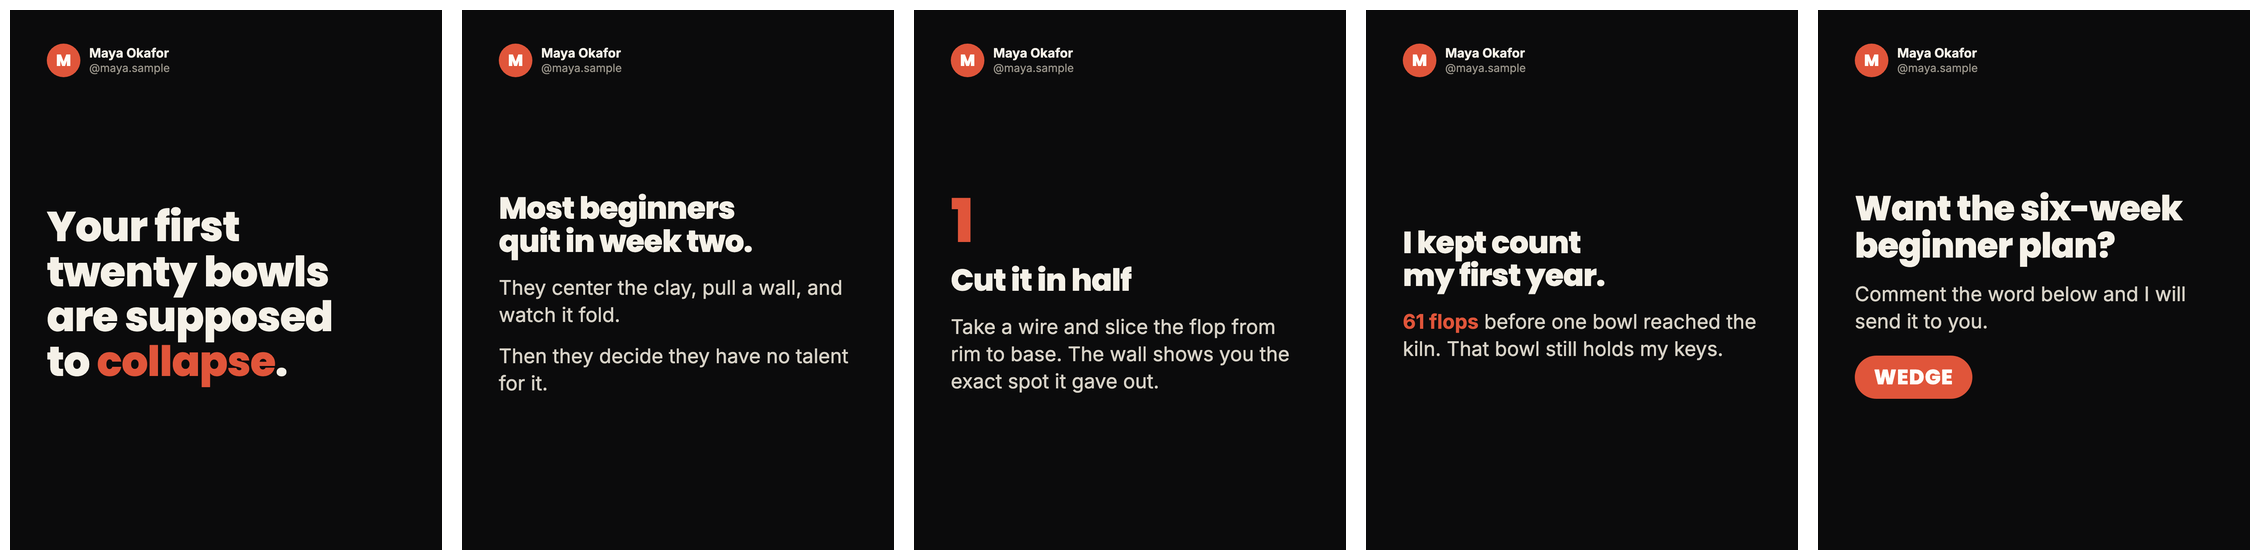
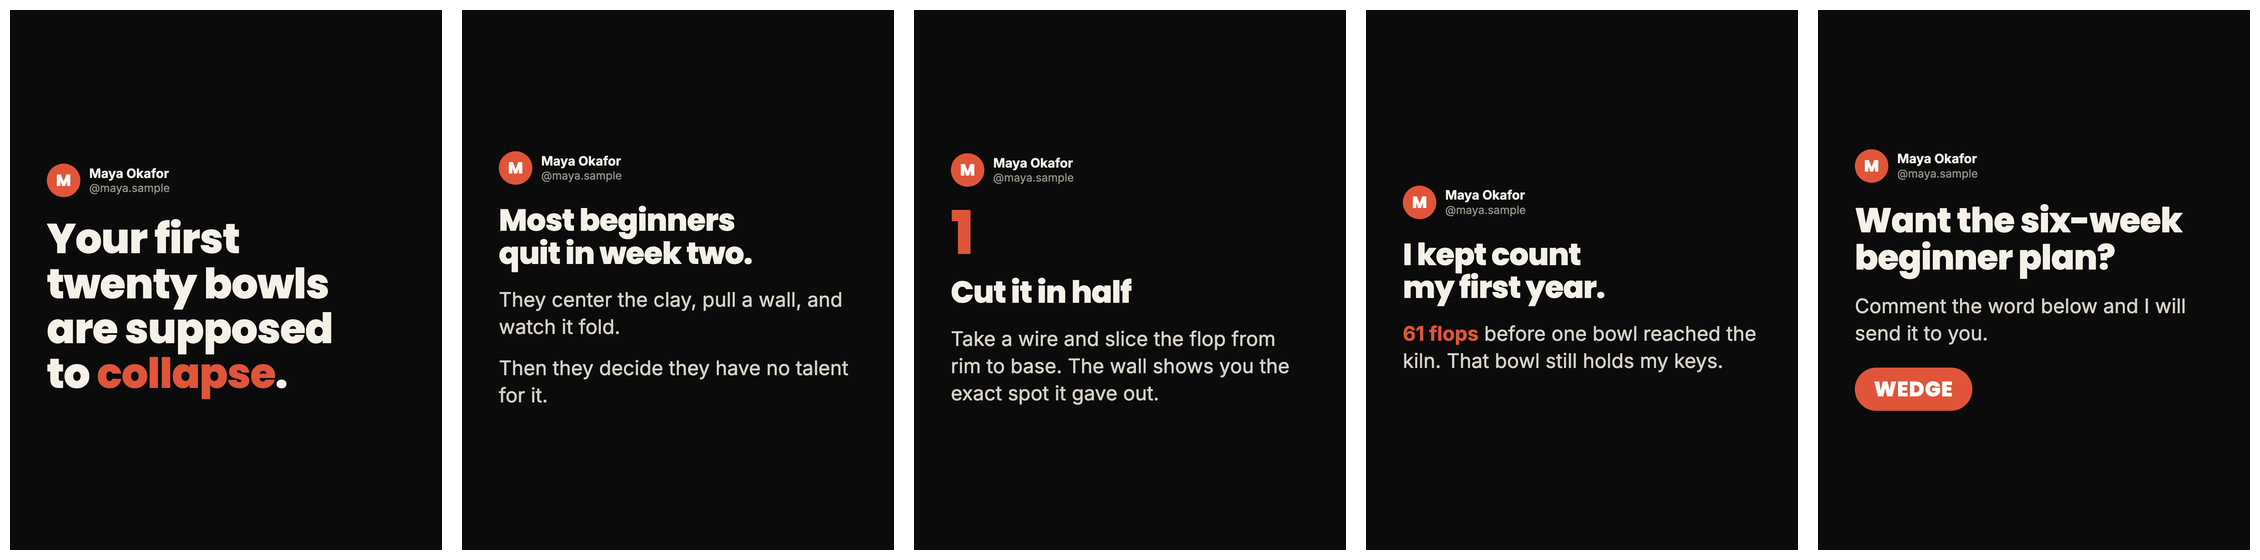
Place the photo, name and handle directly above the words
They were pinned to the top of every slide. Now they sit on the text
block and move with it.

diff --git a/templates/slides.css b/templates/slides.css
@@ -8,7 +8,7 @@ body { padding: 24px; font-size: 0; }
   --k: 1; --hs: 76px; --bs: 50px;
   width: 1080px; height: 1350px; position: relative; overflow: hidden;
   display: inline-flex; flex-direction: column; vertical-align: top;
-  padding: 84px 92px 96px;
+  padding: 96px 92px;
   background: var(--bg); color: var(--fg); font-family: var(--body-font);
   zoom: .3; margin: 0 40px 40px 0;
 }
@@ -29,7 +29,8 @@ body { padding: 24px; font-size: 0; }
 .color .b b { text-decoration: underline; text-decoration-thickness: 5px; text-underline-offset: 8px; }
 .color .hd { opacity: .75; }
 
-.who { flex: none; height: 84px; display: flex; align-items: center; gap: 22px; }
+/* The photo, name and handle sit directly above the words and move with them. */
+.who { flex: none; height: 84px; display: flex; align-items: center; gap: 22px; margin-bottom: calc(var(--k) * 8px); }
 .ph { flex: none; width: 84px; height: 84px; border-radius: 50%; object-fit: cover;
   display: flex; align-items: center; justify-content: center;
   background: var(--pill); color: var(--on-pill); font: 800 40px/1 var(--head-font); }
